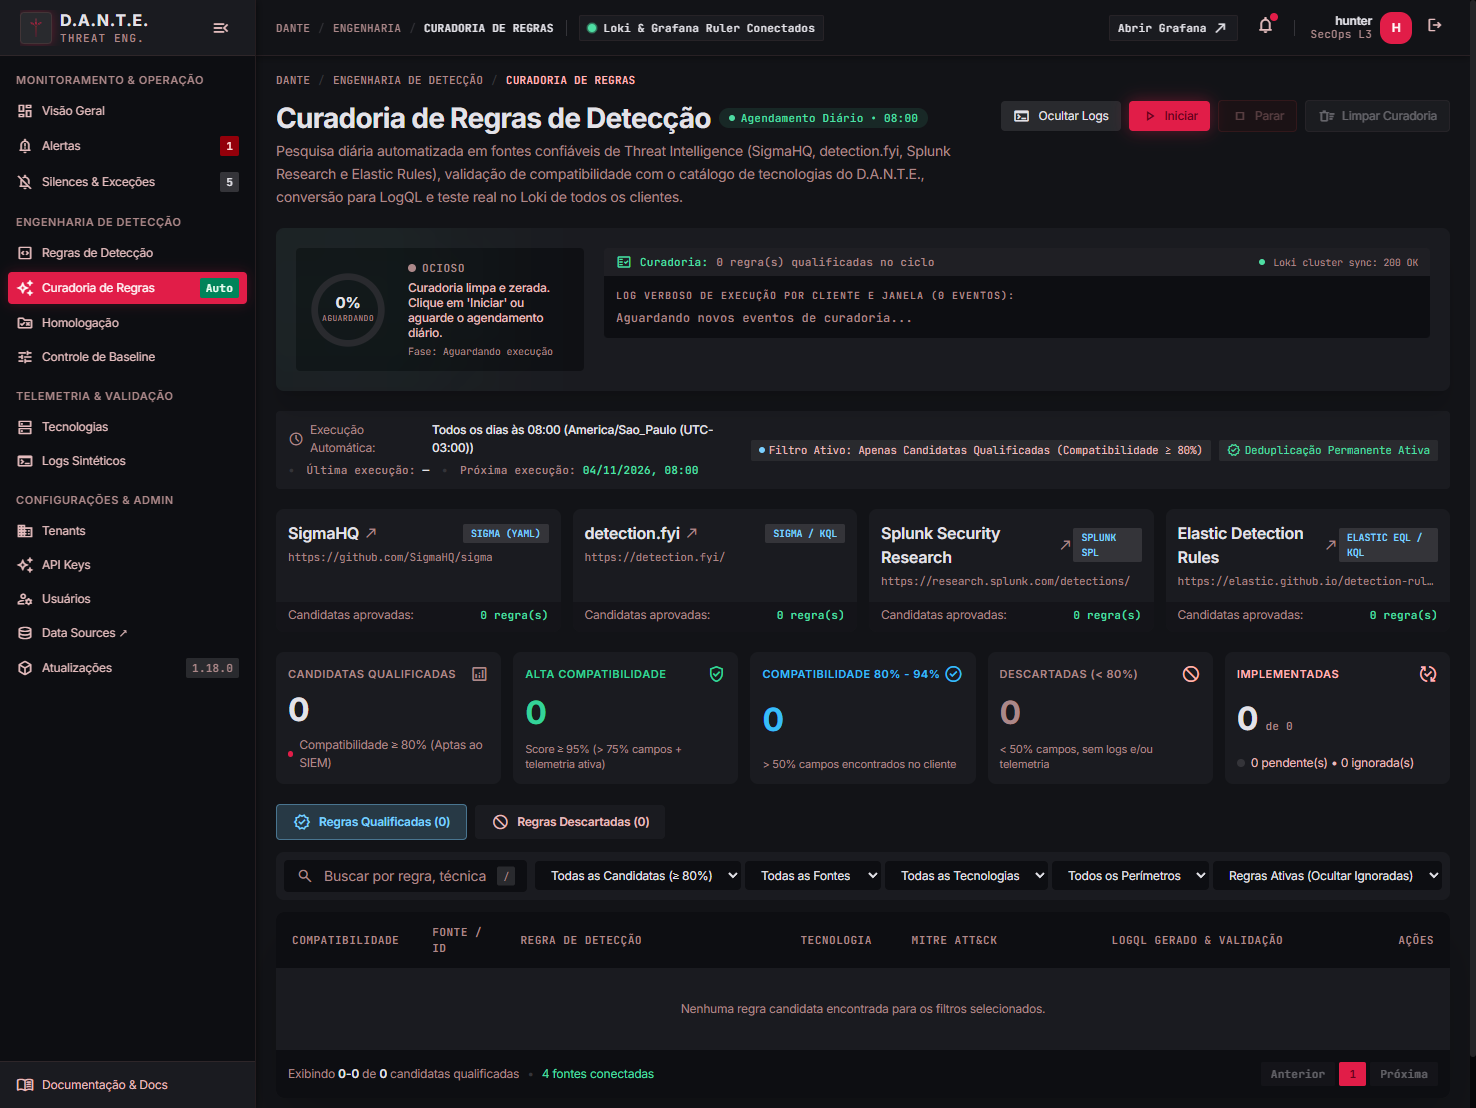
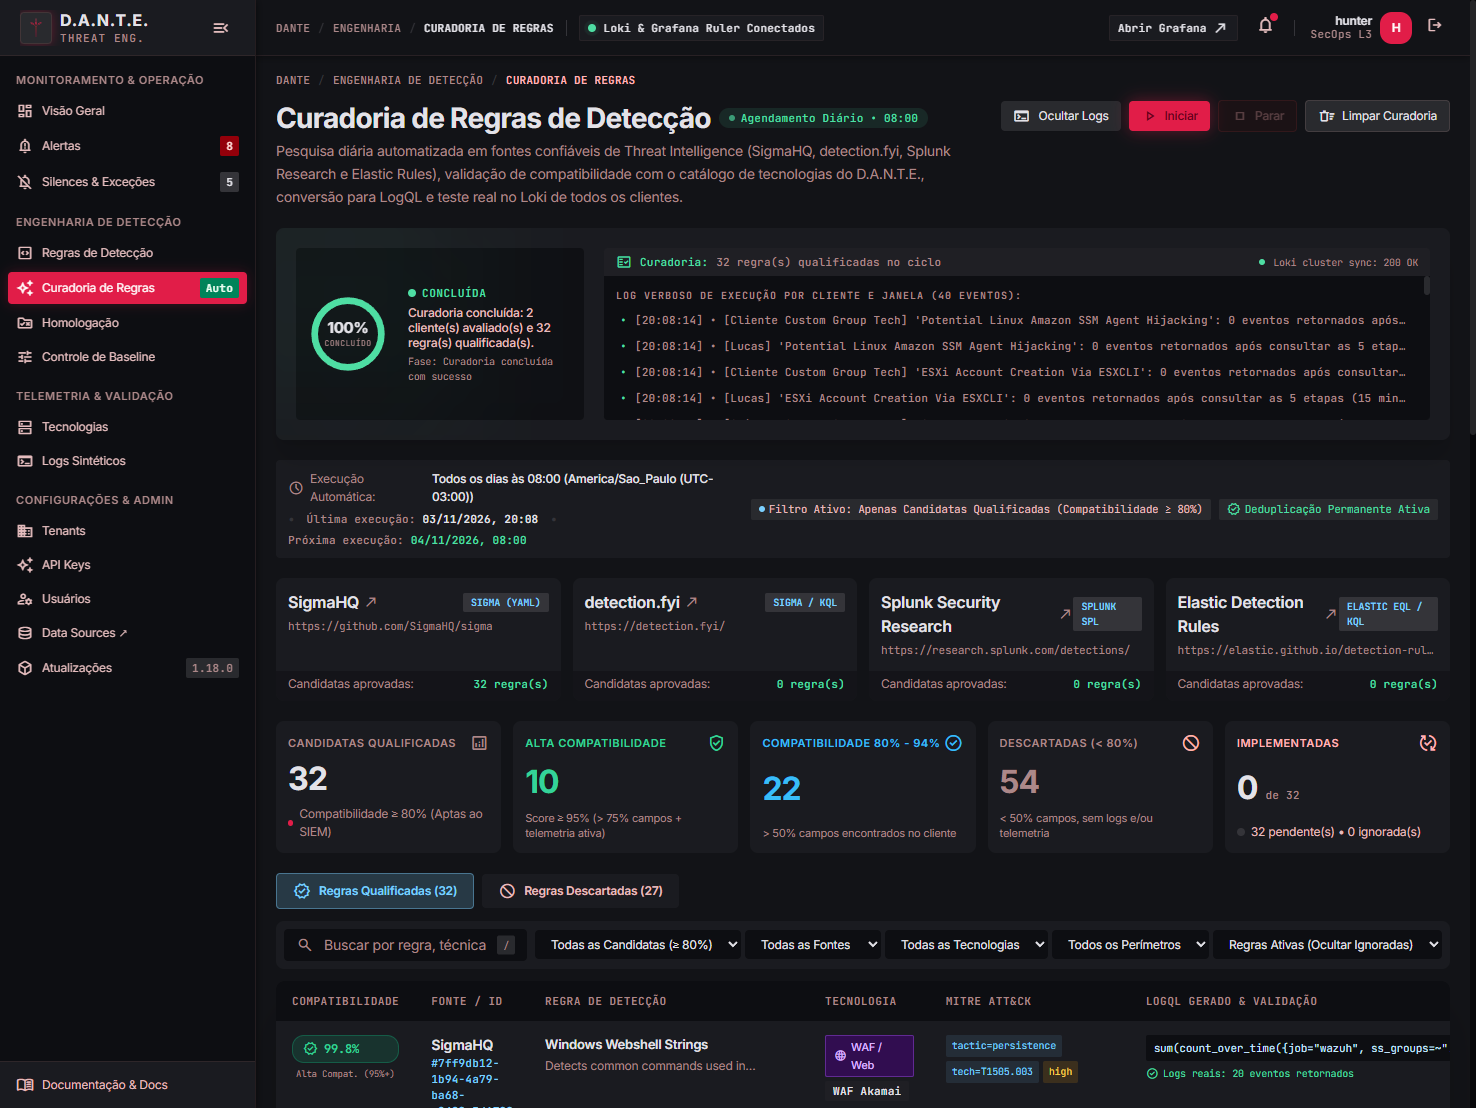
feat(curation): implementar profiling de telemetria ativa e priorizacao por lacunas

diff --git a/backend/app/curation.py b/backend/app/curation.py
@@ -1455,6 +1455,58 @@ def _extract_stream_expression(logql_query: str) -> str:
     return raw
 
 
+def _extract_canonical_event_identifiers(
+    raw_rule: dict[str, Any],
+    logql_query: str,
+) -> tuple[set[str], set[str], set[str]]:
+    """Extrai EventIDs, Subtipos/Ações e Categorias exigidos por uma regra de detecção.
+
+    Retorna: (required_event_ids, required_actions, required_categories).
+    Ex.:
+      - EventIDs: {"4688", "4625", "4720"}
+      - Actions/Subtypes: {"vpn", "ssl", "deny", "login"}
+      - Categories/Services: {"process_creation", "security", "firewall"}
+    """
+    req_ids: set[str] = set()
+    req_actions: set[str] = set()
+    req_cats: set[str] = set()
+
+    # 1. Do raw_rule (Sigma detection / metadata)
+    raw_det = raw_rule.get("detection")
+    if isinstance(raw_det, dict):
+        try:
+            det_json = json.dumps(raw_det).lower()
+            # Procura por EventID
+            for m in re.finditer(r'["\']?(?:eventid|event_id|eventcode)["\']?\s*:\s*(\d+|\[[^\]]+\])', det_json):
+                val = m.group(1)
+                for dig in re.findall(r"\b\d{3,5}\b", val):
+                    req_ids.add(dig)
+            # Procura por action / subtype
+            for m in re.finditer(r'["\']?(?:action|subtype|operation)["\']?\s*:\s*["\']?([a-zA-Z0-9_\-]+)["\']?', det_json):
+                req_actions.add(m.group(1).lower())
+        except Exception:
+            pass
+
+    # 2. Da LogQL convertida (ex: data_win_system_eventID="4688", data_action="deny", data_subtype="vpn")
+    for m in re.finditer(r'(?:win_system_eventID|data_win_system_eventID|event_id|eventid)\s*(?:=~|=)\s*["\']?([^"\'|\s)]+)["\']?', logql_query, re.IGNORECASE):
+        for dig in re.findall(r"\b\d{3,5}\b", m.group(1)):
+            req_ids.add(dig)
+
+    for m in re.finditer(r'(?:data_action|action|data_subtype|subtype|data_office365_Operation)\s*(?:=~|=)\s*["\']?([^"\'|\s)]+)["\']?', logql_query, re.IGNORECASE):
+        act = m.group(1).strip().lower().strip("^$")
+        if act and len(act) >= 2 and not act.startswith(".*"):
+            req_actions.add(act)
+
+    cat = str(raw_rule.get("category") or "").strip().lower()
+    if cat:
+        req_cats.add(cat)
+    srv = str(raw_rule.get("service") or "").strip().lower()
+    if srv:
+        req_cats.add(srv)
+
+    return req_ids, req_actions, req_cats
+
+
 def _flatten_json_items(obj: dict[str, Any], prefix: str = "") -> dict[str, Any]:
     """Achata chaves e valores de um objeto JSON com '_' (comportamento do `| json` no Loki)."""
     items: dict[str, Any] = {}
@@ -2225,6 +2277,7 @@ async def evaluate_rule_across_clients(
     severity: str = "high",
     mitre_tactic: str = "",
     mitre_technique: str = "",
+    raw_rule: dict[str, Any] | None = None,
 ) -> tuple[Literal["excellent", "good", "bad"], str, float, list[CurationClientEvaluation]]:
     """Passo 2.3: Executa a query convertida no Loki de todos os clientes em etapas progressivas
     (15m -> 1h -> 6h -> 24h -> 3d) e categoriza a regra segundo os 3 limiares recalibrados:
@@ -2489,8 +2542,18 @@ async def evaluate_rule_across_clients(
             if not (rule_query_ok or instant_ok or tech_query_ok or rule_timed_out):
                 continue
 
-            # Extrai todos os campos JSON reais vistos nos logs durante as queries executadas
+            # Inspeção Prévia de Telemetria Ativa (Active Telemetry Profiling)
+            # Extrai os identificadores canônicos exigidos pela regra (Event IDs, Subtipos de Ação)
+            req_event_ids, req_actions, req_cats = _extract_canonical_event_identifiers(
+                raw_rule=raw_rule or {},
+                logql_query=logql_query,
+            )
+
+            # Extrai todos os campos e valores JSON reais vistos nos logs durante as queries executadas
             raw_observed_fields: set[str] = set()
+            observed_event_ids: set[str] = set()
+            observed_actions: set[str] = set()
+
             for line_str in matched_lines + tech_lines:
                 try:
                     parsed_line = json.loads(line_str)
@@ -2501,6 +2564,13 @@ async def evaluate_rule_across_clients(
                         for fk, fv in flat_items.items():
                             val_str = str(fv).strip()
                             if val_str:
+                                # Captura Event IDs presentes na telemetria real do cliente
+                                if "eventid" in fk.lower() or "eventcode" in fk.lower():
+                                    observed_event_ids.add(val_str.lower())
+                                # Captura Ações e Subtipos presentes na telemetria real
+                                elif fk.lower() in ("data_action", "action", "data_subtype", "subtype", "data_office365_operation"):
+                                    observed_actions.add(val_str.lower())
+
                                 for cand_cf in compatible_fields_list:
                                     if cand_cf == fk or cand_cf.lower() == fk.lower() or cand_cf in exp_keys:
                                         bucket = global_field_samples.setdefault(cand_cf, [])
@@ -2609,17 +2679,103 @@ async def evaluate_rule_across_clients(
                 multi_client=False,
             )
 
+            # -------------------------------------------------------------------------
+            # Inspeção Prévia de Telemetria Ativa (Active Telemetry Profiling)
+            # Avalia se os Event IDs / Subtipos de log exigidos pela regra foram
+            # comprovadamente observados nos logs recentes do cliente ou confirmados no Loki.
+            # -------------------------------------------------------------------------
+            event_id_matched = True
+            missing_event_ids: list[str] = []
+            if req_event_ids:
+                matched_eids = [eid for eid in req_event_ids if eid in observed_event_ids]
+                if not matched_eids:
+                    # Tenta validar se algum dos Event IDs exigidos existe no Loki deste cliente
+                    eid_or = " or ".join([f'data_win_system_eventID = "{eid}" or win_system_eventID = "{eid}"' for eid in list(req_event_ids)[:6]])
+                    eid_stream = f'{{job="{technology.job}", ss_groups=~"{technology.ss_groups_regex}"}} | json | {eid_or}'
+                    try:
+                        eid_ok, eid_lines, _, _ = await _query_loki_lines(
+                            grafana=grafana,
+                            datasource_uid=ds_uid,
+                            expr=eid_stream,
+                            limit=2,
+                            time_from="now-3d",
+                            timeout=2.0,
+                        )
+                        if eid_ok and eid_lines:
+                            event_id_matched = True
+                        else:
+                            event_id_matched = False
+                            missing_event_ids = sorted(req_event_ids)
+                    except Exception:
+                        event_id_matched = False
+                        missing_event_ids = sorted(req_event_ids)
+
+            # Subtipo / Ação exigida (ex.: VPN SSL, firewall policy)
+            action_matched = True
+            missing_actions: list[str] = []
+            if req_actions:
+                matched_acts = [act for act in req_actions if any(act in obs_act for obs_act in observed_actions)]
+                if not matched_acts:
+                    # Se há actions específicas requeridas e nenhuma foi observada nos logs recentes da tecnologia
+                    if observed_actions:  # se observamos logs da tecnologia mas com actions completamente distintas
+                        action_matched = False
+                        missing_actions = sorted(req_actions)
+
+            # Se a regra exige Event IDs específicos ou subtipos e nenhum foi comprovado no cliente:
+            telemetry_profiling_passed = event_id_matched and action_matched
+            if not telemetry_profiling_passed and not has_results:
+                # Regra descartada no cliente por ausência do evento canônico gerador na telemetria
+                c_score = min(c_score, 74.0)
+                observed_compat_pct = min(observed_compat_pct, 45.0)
+
             # Telemetry-First & Gap-Driven: Análise de Lacuna de Detecção no Cliente
             is_client_gap = False
             client_tech_rules_count = sum(
                 1 for r in c_rules if (r.get("labels") or {}).get("technology") == technology.slug
             )
             has_scanned_logs = tech_logs_count > 0
-            if has_scanned_logs and client_tech_rules_count < 5:
+            if has_scanned_logs and client_tech_rules_count < 5 and telemetry_profiling_passed:
                 is_client_gap = True
 
             # Fatores detalhados da qualificação neste cliente
             client_factors: list[CurationQualificationFactor] = []
+            if not telemetry_profiling_passed and not has_results:
+                missing_items = []
+                if missing_event_ids:
+                    missing_items.append(f"Event ID(s): {', '.join(missing_event_ids)}")
+                if missing_actions:
+                    missing_items.append(f"Subtipo(s)/Ação(ões): {', '.join(missing_actions)}")
+                missing_str = "; ".join(missing_items) if missing_items else "eventos canônicos ausentes"
+                client_factors.append(
+                    CurationQualificationFactor(
+                        criterion="Inspeção Prévia de Telemetria Ativa (Active Telemetry Profiling)",
+                        status="not_met",
+                        impact="bad",
+                        summary=(
+                            f"Regra desqualificada em '{c_name}': os eventos canônicos necessários ({missing_str}) "
+                            f"não foram comprovadamente observados nos logs da tecnologia '{technology.name}' no Loki."
+                        ),
+                    )
+                )
+            elif (req_event_ids or req_actions) and telemetry_profiling_passed:
+                confirmed_items = []
+                if req_event_ids:
+                    confirmed_items.append(f"Event ID(s): {', '.join(sorted(req_event_ids))}")
+                if req_actions:
+                    confirmed_items.append(f"Subtipo(s): {', '.join(sorted(req_actions))}")
+                conf_str = "; ".join(confirmed_items)
+                client_factors.append(
+                    CurationQualificationFactor(
+                        criterion="Inspeção Prévia de Telemetria Ativa (Active Telemetry Profiling)",
+                        status="met",
+                        impact="excellent",
+                        summary=(
+                            f"Telemetria comprovada em '{c_name}': eventos canônicos requeridos ({conf_str}) "
+                            f"estão ativos e gerando logs no Loki do cliente."
+                        ),
+                    )
+                )
+
             if is_client_gap:
                 client_factors.append(
                     CurationQualificationFactor(
@@ -2867,14 +3023,19 @@ async def evaluate_rule_across_clients(
         (ev.observed_field_compatibility_pct for ev in client_evaluations),
         default=global_obs_pct,
     )
-    effective_obs_pct = max(global_obs_pct, best_client_obs_pct)
-    global_has_telemetry, _, _ = _evaluate_client_telemetry_readiness(
-        mapped_fields=mapped_fields,
-        observed_fields=global_observed_fields,
-        tech_logs_count=total_tech_all,
-        has_query_results=(total_hits_all > 0),
-    )
-    has_telemetry_any = bool(global_has_telemetry or len(excellent_clients) > 0)
+    # Se todas as avaliações de clientes foram descartadas por telemetria ausente / profiling, limita global_obs_pct
+    if not excellent_clients and not good_clients:
+        effective_obs_pct = min(global_obs_pct, best_client_obs_pct, 45.0)
+        has_telemetry_any = False
+    else:
+        effective_obs_pct = max(global_obs_pct, best_client_obs_pct)
+        global_has_telemetry, _, _ = _evaluate_client_telemetry_readiness(
+            mapped_fields=mapped_fields,
+            observed_fields=global_observed_fields,
+            tech_logs_count=total_tech_all,
+            has_query_results=(total_hits_all > 0),
+        )
+        has_telemetry_any = bool(global_has_telemetry or len(excellent_clients) > 0)
     all_matched_windows = [ev.matched_window for ev in client_evaluations if ev.matched_window]
     has_multi = len([ev for ev in client_evaluations if ev.tech_logs_count > 0]) >= 2
     global_dynamic_score, _g_lp, _g_tc, _g_sm = compute_dynamic_compatibility(
@@ -2892,6 +3053,8 @@ async def evaluate_rule_across_clients(
         lint_valid=True,
         multi_client=has_multi,
     )
+    if not excellent_clients and not good_clients and global_dynamic_score >= 80.0:
+        global_dynamic_score = min(global_dynamic_score, 74.0)
 
     if excellent_clients:
         names = ", ".join(
@@ -3546,6 +3709,30 @@ def _populate_curated_rule_qualification_details(item: CuratedRuleItem) -> None:
         lint_valid=item.lint_valid,
         multi_client=has_multi_clients,
     )
+
+    # Se o item estiver descartado ou não tiver clientes qualificados, recalibra pontuação e cobertura observada
+    has_qualified_clients = any(ev.classification in ("excellent", "good") for ev in item.client_evaluations)
+    if (item.discarded or not has_qualified_clients) and not has_results:
+        effective_obs_pct = min(effective_obs_pct, 45.0)
+        any_client_has_telemetry = False
+        global_has_tel = False
+        dynamic_score, log_score, threat_score, scenario_score = compute_dynamic_compatibility(
+            schema_compat_pct=schema_compat_pct,
+            tech_logs_count=total_tech,
+            matched_lines_count=total_matched,
+            matched_windows=[ev.matched_window for ev in item.client_evaluations if ev.matched_window],
+            severity=str(item.severity),
+            mitre_tactic=item.mitre_tactic,
+            mitre_technique=item.mitre_technique,
+            perimeter=item.perimeter,
+            observed_field_compat_pct=effective_obs_pct,
+            has_query_results=has_results,
+            has_required_telemetry=False,
+            lint_valid=item.lint_valid,
+            multi_client=has_multi_clients,
+        )
+        if dynamic_score >= 80.0:
+            dynamic_score = min(dynamic_score, 74.0)
 
     if not item.discarded:
         if dynamic_score >= 95.0:
@@ -4321,6 +4508,7 @@ async def _run_curation_cycle_unlocked(
                 severity=str(candidate.get("severity") or "high"),
                 mitre_tactic=mitre_tactic,
                 mitre_technique=mitre_technique,
+                raw_rule=candidate,
             )
 
             # Regra 2: Apenas regras com compatibilidade >= 80% são consideradas candidatas para o SIEM
